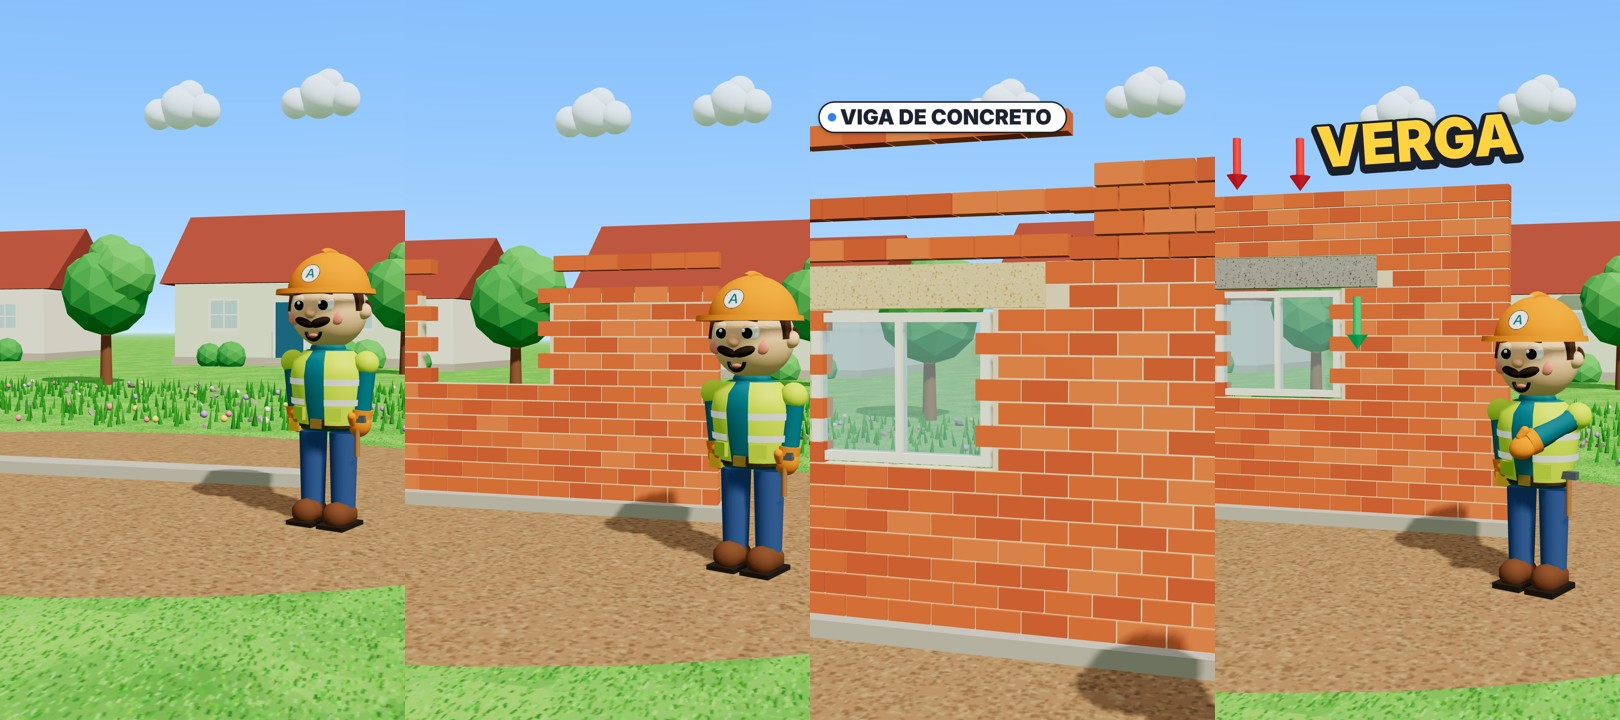
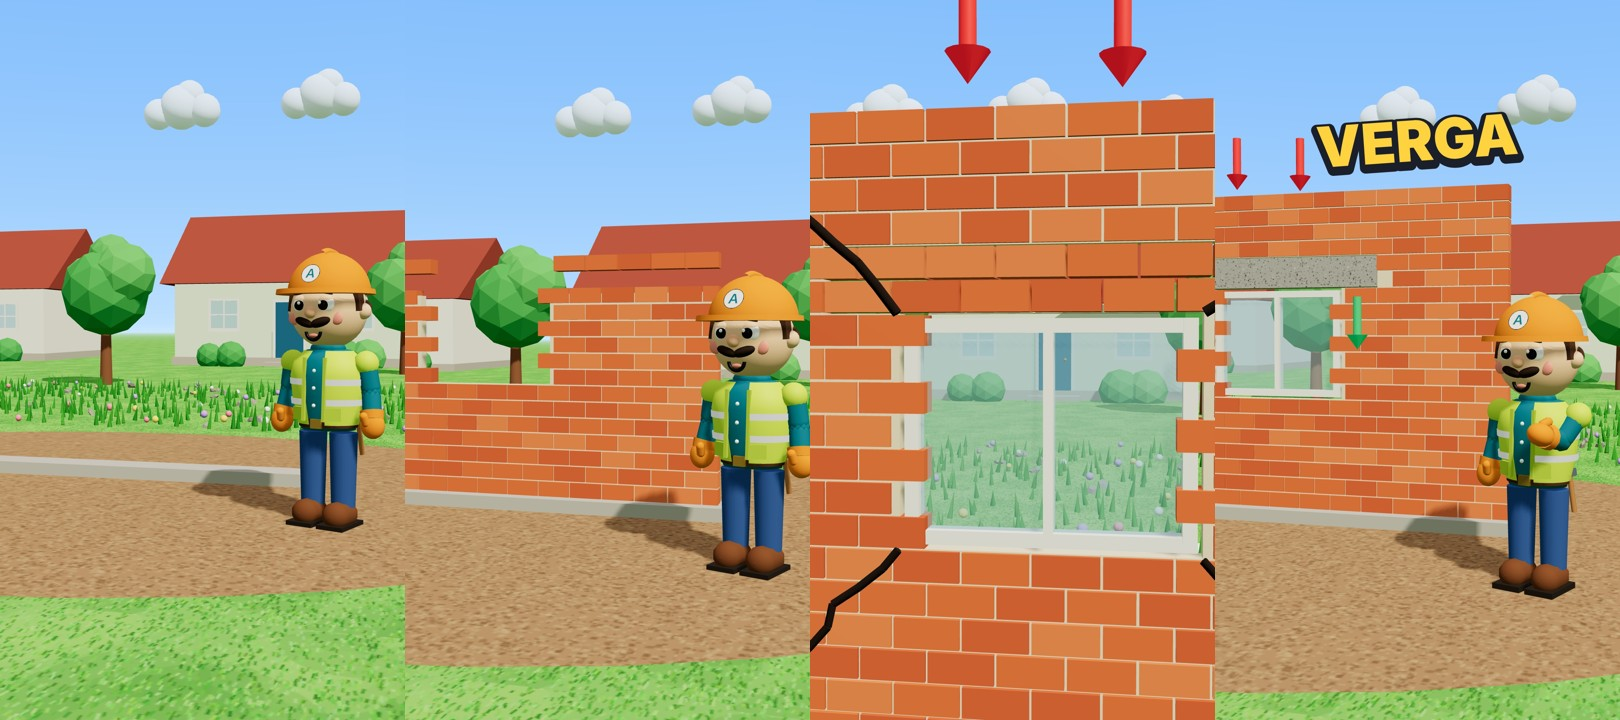
Mascote: braços com cotovelo e convenção de rotação corrigida (mãos não atravessam), ferramentas atrás do quadril, botões e acabamento do colete
Claude-Session: https://claude.ai/code/session_01KB6dFe4wDJK4gqvbKW4MiZ

Changed region(s): [[0.4012, 0.0, 0.7716, 1.0], [0.8951, 0.5806, 0.9877, 0.7028], [0.1543, 0.4889, 0.2469, 0.6417]]

diff --git a/template/web/kit.js b/template/web/kit.js
@@ -239,18 +239,21 @@ export function mascot(parent, pos = [0, 0, 0], s = 1) {
   const gap = 0.55, vo = { phiStart: gap / 2, phiLength: Math.PI * 2 - gap };
   lathe([[0.222, 0.72], [0.265, 0.9], [0.282, 1.06], [0.262, 1.16], [0.18, 1.235]], vest, 0, vo);
   for (const y of [0.88, 1.02]) lathe([[0.27 + (y > 0.95 ? 0.014 : 0.004), y - 0.022], [0.272 + (y > 0.95 ? 0.014 : 0.006), y + 0.022]], refl, 0, vo);
-  for (const sx of [-1, 1]) { const pk = box(body, [0.11, 0.09, 0.03], vestD, [sx * 0.13, 0.8, 0.185]); pk.rotation.y = sx * 0.45; }
+  for (const sx of [-1, 1]) { const pk = box(body, [0.11, 0.09, 0.03], vestD, [sx * 0.13, 0.8, 0.185]); pk.rotation.y = sx * 0.45;
+    const ed = box(body, [0.022, 0.44, 0.022], vestD, [sx * 0.078, 0.97, 0.214], { cast: false }); ed.rotation.x = -0.05; }
+  for (const y of [0.86, 0.98, 1.1]) add(body, new THREE.SphereGeometry(0.014, 8, 6), white, [0, y, 0.218 - (y > 1.05 ? 0.005 : 0)], { cast: false });
   // cinto, fivela, martelo e trena
   lathe([[0.215, 0.7], [0.222, 0.76]], belt);
   box(body, [0.08, 0.065, 0.03], mat('#d9b44a', { metalness: 0.6, roughness: 0.3 }), [0, 0.73, 0.18]);
-  const ham = group(body, [0.25, 0.64, 0.05]); cyl(ham, 0.018, 0.26, M.wood, [0, 0, 0], { seg: 6 }); box(ham, [0.12, 0.05, 0.05], M.steel, [0, 0.13, 0]);
-  box(body, [0.09, 0.09, 0.05], mat('#f6c22c'), [-0.235, 0.7, 0.05]);
+  const ham = group(body, [0.17, 0.62, -0.16]); ham.rotation.z = 0.15; cyl(ham, 0.018, 0.26, M.wood, [0, 0, 0], { seg: 6 }); box(ham, [0.05, 0.05, 0.12], M.steel, [0, 0.13, 0]);
+  box(body, [0.09, 0.09, 0.05], mat('#f6c22c'), [-0.15, 0.7, -0.17]);
   // braços: manga, luva laranja com polegar
   const arms = []; for (const sx of [-1, 1]) { const a = group(body, [sx * 0.29, 1.15, 0]);
-    add(a, new THREE.SphereGeometry(0.088, 12, 10), vest, [0, 0, 0]); add(a, new THREE.CapsuleGeometry(0.07, 0.28, 4, 10), M.teal, [0, -0.19, 0]);
-    add(a, new THREE.CylinderGeometry(0.085, 0.08, 0.06, 12), glove, [0, -0.35, 0]);
-    const hand = add(a, new THREE.SphereGeometry(0.09, 14, 12), glove, [0, -0.42, 0]); hand.scale.set(0.95, 1.05, 0.8);
-    add(a, new THREE.CapsuleGeometry(0.03, 0.05, 4, 8), glove, [-sx * 0.02, -0.39, 0.075], { rot: [0.6, 0, 0] }); arms.push(a); }
+    add(a, new THREE.SphereGeometry(0.088, 12, 10), vest, [0, 0, 0]); add(a, new THREE.CapsuleGeometry(0.07, 0.13, 4, 10), M.teal, [0, -0.1, 0]);
+    const el = group(a, [0, -0.2, 0]); add(el, new THREE.SphereGeometry(0.068, 10, 8), M.teal, [0, 0, 0]); add(el, new THREE.CapsuleGeometry(0.066, 0.1, 4, 10), M.teal, [0, -0.08, 0]);
+    add(el, new THREE.CylinderGeometry(0.083, 0.078, 0.06, 12), glove, [0, -0.16, 0]);
+    const hand = add(el, new THREE.SphereGeometry(0.09, 14, 12), glove, [0, -0.23, 0]); hand.scale.set(0.95, 1.05, 0.8);
+    add(el, new THREE.CapsuleGeometry(0.03, 0.05, 4, 8), glove, [-sx * 0.02, -0.2, 0.075], { rot: [0.6, 0, 0] }); a.userData.elbow = el; arms.push(a); }
   // cabeça grande
   const head = group(body, [0, 1.52, 0]);
   add(head, new THREE.SphereGeometry(0.27, 28, 20), M.skin, [0, 0, 0]);
@@ -283,15 +286,17 @@ export function mascot(parent, pos = [0, 0, 0], s = 1) {
   // poses: idle, point (braço direito para frente), wave, up (comemora), shrug, think, umbrella, hot (abanando)
   const pose = (name, t) => {
     const b = Math.sin(t * 3.2) * 0.012; body.position.y = b; head.rotation.set(0, 0, 0); legs.forEach((l) => l.rotation.set(0, 0, 0));
-    const [L, R] = arms; L.rotation.set(0, 0, 0.12); R.rotation.set(0, 0, -0.12);
-    if (name === 'point') { R.rotation.set(-1.45, 0, -0.15); head.rotation.y = -0.15; }
-    if (name === 'pointUp') { R.rotation.set(-2.6, 0, -0.1); head.rotation.x = -0.2; }
-    if (name === 'wave') { R.rotation.set(0, 0, -2.5 + Math.sin(t * 10) * 0.35); }
-    if (name === 'up') { L.rotation.set(0, 0, 2.6 + Math.sin(t * 9) * 0.15); R.rotation.set(0, 0, -2.6 - Math.sin(t * 9) * 0.15); body.position.y = Math.abs(Math.sin(t * 6)) * 0.12; }
-    if (name === 'shrug') { L.rotation.set(0, 0, 0.9); R.rotation.set(0, 0, -0.9); head.rotation.z = 0.12; }
-    if (name === 'scared') { L.rotation.set(-0.3, 0, 2.2); R.rotation.set(-0.3, 0, -2.2); body.position.y = Math.abs(Math.sin(t * 20)) * 0.03; }
-    if (name === 'think') { R.rotation.set(-2.3, 0, 0.5); head.rotation.z = 0.15; }
-    if (name === 'thumb') { R.rotation.set(-1.0, 0, -0.6); }
+    const [L, R] = arms, EL = L.userData.elbow, ER = R.userData.elbow;
+    // convenção: braço ESQUERDO (L, x<0) abre com rotação z NEGATIVA; DIREITO (R, x>0) abre com z POSITIVA
+    L.rotation.set(0.05, 0, -0.16); R.rotation.set(0.05, 0, 0.16); EL.rotation.set(-0.25, 0, 0); ER.rotation.set(-0.25, 0, 0);
+    if (name === 'point') { R.rotation.set(-1.45, 0, 0.2); ER.rotation.set(-0.1, 0, 0); head.rotation.y = -0.15; }
+    if (name === 'pointUp') { R.rotation.set(-0.3, 0, 2.6); ER.rotation.set(0, 0, 0); head.rotation.x = -0.2; }
+    if (name === 'wave') { R.rotation.set(-0.2, 0, 2.3); ER.rotation.set(0, 0, -0.3 + Math.sin(t * 10) * 0.35); }
+    if (name === 'up') { L.rotation.set(-0.2, 0, -2.45 - Math.sin(t * 9) * 0.1); R.rotation.set(-0.2, 0, 2.45 + Math.sin(t * 9) * 0.1); EL.rotation.set(0, 0, 0); ER.rotation.set(0, 0, 0); body.position.y = Math.abs(Math.sin(t * 6)) * 0.12; }
+    if (name === 'shrug') { L.rotation.set(0, 0, -0.55); R.rotation.set(0, 0, 0.55); EL.rotation.set(-1.2, 0, 0); ER.rotation.set(-1.2, 0, 0); head.rotation.z = 0.12; }
+    if (name === 'scared') { L.rotation.set(-0.4, 0, -0.5); R.rotation.set(-0.4, 0, 0.5); EL.rotation.set(-2.0, 0, 0); ER.rotation.set(-2.0, 0, 0); body.position.y = Math.abs(Math.sin(t * 20)) * 0.03; }
+    if (name === 'think') { R.rotation.set(-0.5, 0, -0.3); ER.rotation.set(-2.2, 0, 0.3); head.rotation.z = 0.12; }
+    if (name === 'thumb') { R.rotation.set(-0.6, 0, -0.35); ER.rotation.set(-1.2, 0, 0); }
     if (name === 'walk') { const w = Math.sin(t * 8); legs[0].rotation.x = w * 0.5; legs[1].rotation.x = -w * 0.5; L.rotation.x = -w * 0.4; R.rotation.x = w * 0.4; }
   };
   return { root, body, head, arms, legs, pose, props };

diff --git a/ESTILO.md b/ESTILO.md
@@ -25,7 +25,7 @@ Regras: cada frase é uma imagem que dá pra animar; nunca explicar com abstraç
 
 ## Visual
 - **3D low-poly colorido e limpo** ("brinquedo"): cores saturadas, céu azul com nuvens fofas, grama verde viva, árvores low-poly, luz de dia clara. Sem contorno preto.
-- **Mascote "você" (marca registrada do canal — sempre o mesmo, `K.mascot`)**: cabeça grande, capacete LARANJA com o emblema "A" do canal, olhos grandes com pálpebras, sobrancelhas e BIGODE castanhos, costeletas e cabelo castanho na nuca, bochechas rosadas, camisa azul-petróleo de gola, COLETE AMARELO-LIMÃO aberto com 2 faixas refletivas e bolsos, luvas laranja com polegar, cinto de ferramentas com martelo e trena, calça jeans e botas marrons com sola. Reconhecível em miniatura (ver `marca/mascote/`). Não mudar cores nem acessórios; ele reage aos problemas (poses scared, point, thumb, up, shrug, think, walk) e aparece INTEIRO em pelo menos 1 plano a cada ~10 s e na capa.
+- **Mascote "você" (marca registrada do canal — sempre o mesmo, `K.mascot`)**: cabeça grande, capacete LARANJA com o emblema "A" do canal, olhos grandes com pálpebras, sobrancelhas e BIGODE castanhos, costeletas e cabelo castanho na nuca, bochechas rosadas, camisa azul-petróleo de gola, COLETE AMARELO-LIMÃO aberto com 2 faixas refletivas e bolsos, luvas laranja com polegar, cinto de ferramentas com martelo e trena, calça jeans e botas marrons com sola. Reconhecível em miniatura (ver `marca/mascote/`). **As mãos nunca atravessam nada** (corpo, ferramentas, peças): martelo e trena ficam atrás do quadril; braços com cotovelo; conferir a pose na prévia (folha de poses em `marca/mascote/mascote_poses.jpg`). Convenção do kit: braço esquerdo abre com rotação z negativa, direito com positiva. Não mudar cores nem acessórios; ele reage aos problemas (poses scared, point, thumb, up, shrug, think, walk) e aparece INTEIRO em pelo menos 1 plano a cada ~10 s e na capa.
 - **A obra é a protagonista**: cada elo mostra a peça nova entrando (cai do alto, desliza, encaixa), em camadas, com cortes/transparências pra ver por dentro.
 - **Física visível**: gotas de chuva = esferas azuis; calor = esferas laranja; peso = setas vermelhas pra baixo; tração/compressão = setas verdes; rachaduras desenhadas.
 - **Rótulos curtos dentro da cena**: pílula branca com ponto colorido ("• LAJE DE CONCRETO", "• 3 TONELADAS", "• +50 °C", "• 11 cm"); **nome técnico** em amarelo grosso inclinado quando é revelado ("TESOURAS", "RUFO").
